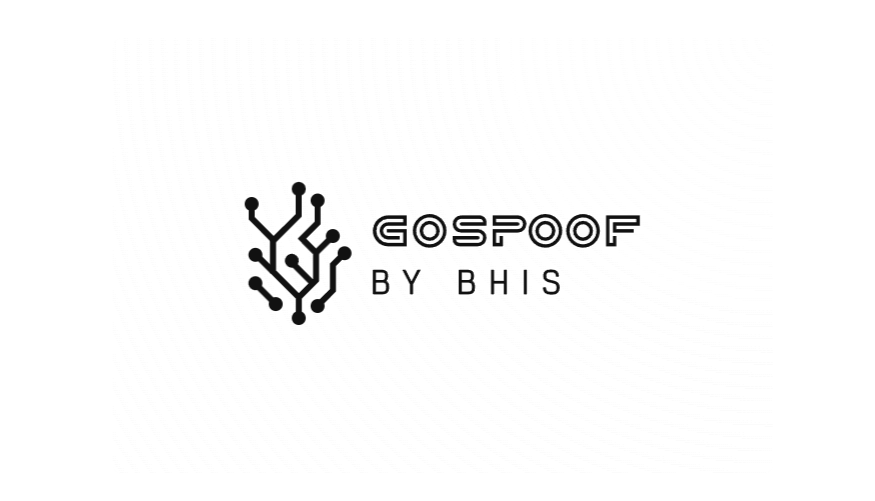
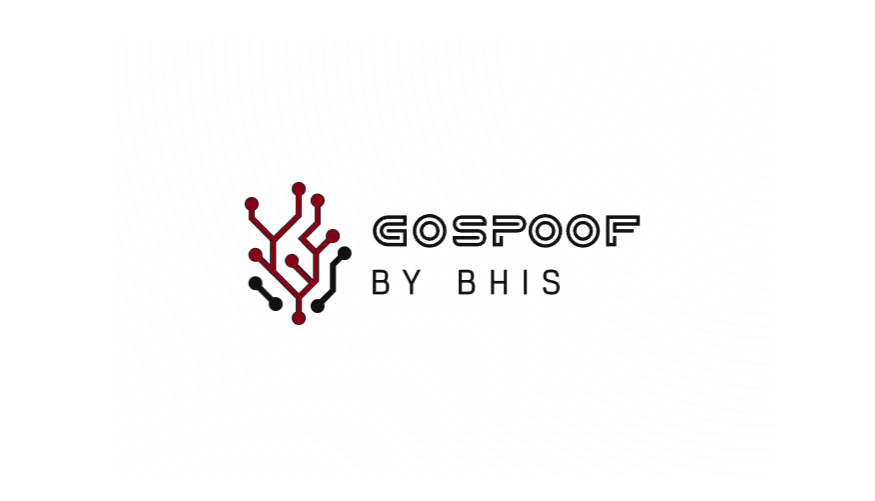
Aesthetic Rework, prepping for further features

Changed region(s): [[0.2777, 0.3593, 0.4011, 0.6587]]

diff --git a/README.md b/README.md
@@ -22,6 +22,8 @@
 </div>
 <hr>
 
+<div align="left">
+
 ## Setup
 
 Portspoof requires all traffic to be directed to a single port. 
@@ -88,5 +90,7 @@ Usage of ./goSpoof:
   -v string
         be verbose (default None)
 ```
+
+<div align="center">
 
 Made with ❤ by Black Hills Infosec
